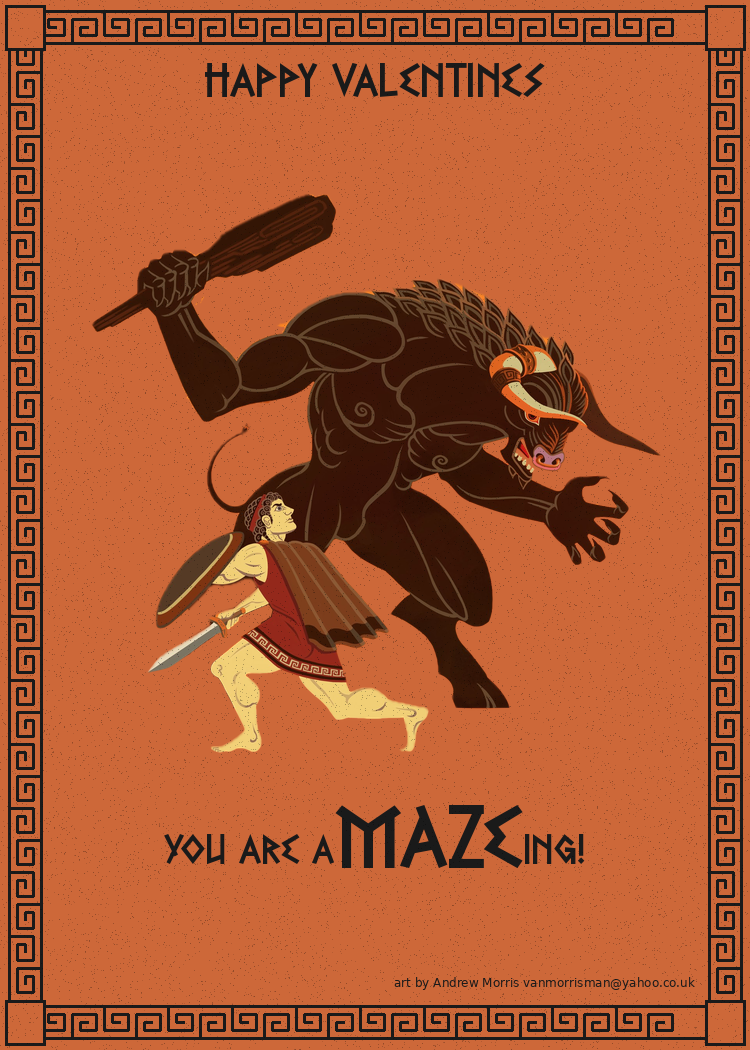
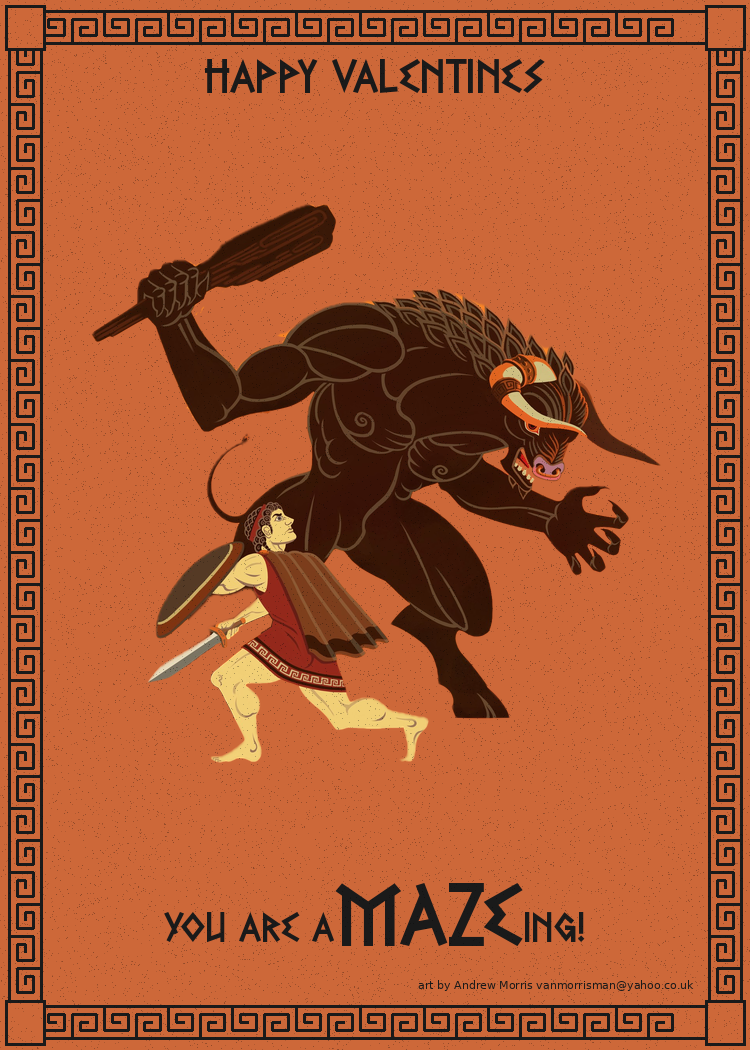
Apply design spacing principles: 8pt grid, proper zones, visual hierarchy

Changed region(s): [[0.1227, 0.1829, 0.8893, 0.7314], [0.2147, 0.7619, 0.92, 0.9448], [0.276, 0.0305, 0.736, 0.0914]]

diff --git a/src/greek_design_system.py b/src/greek_design_system.py
@@ -411,7 +411,7 @@ def generate_greek_card_front(
     top_bbox = draw.textbbox((0, 0), top_text, font=top_font)
     top_text_width = top_bbox[2] - top_bbox[0]
     top_x = (width - top_text_width) // 2
-    top_y = 60  # Just below the top border
+    top_y = 56  # 8pt grid: border ends ~50, + 8px padding
     draw.text((top_x, top_y), top_text, fill=PALETTE.black, font=top_font)
 
     # Add minotaur artwork if provided
@@ -446,9 +446,13 @@ def generate_greek_card_front(
             print(f"Resizing minotaur to: {new_width}x{new_height}")
             minotaur = minotaur.resize((new_width, new_height), Image.Resampling.LANCZOS)
 
-            # Center horizontally, position in upper area
+            # Center horizontally, position below "Happy Valentines" title
             x_pos = (width - new_width) // 2
-            y_pos = 60 + (content_height - new_height) // 2
+            # Title ends ~104px, add 16px padding = 120px start for minotaur area
+            minotaur_top = 120
+            minotaur_bottom = height - 200  # Leave 200px for bottom text area
+            minotaur_area_height = minotaur_bottom - minotaur_top
+            y_pos = minotaur_top + (minotaur_area_height - new_height) // 2
             print(f"Pasting minotaur at position: ({x_pos}, {y_pos})")
 
             # Convert base image to RGBA to properly handle transparency
@@ -524,28 +528,35 @@ def generate_greek_card_front(
     h1 = bbox1[3] - bbox1[1]
     h2 = bbox2[3] - bbox2[1]
 
-    # Center the whole thing horizontally
+    # Layout: bottom zone is 850-1000 (above border)
+    # Center greeting text in zone, credit near bottom
+    bottom_zone_top = height - 200  # 850
+    bottom_zone_bottom = height - 56  # 994 (8px above border)
+
+    # Center greeting vertically in upper portion of bottom zone
+    greeting_zone_height = 120  # Space for the greeting
+    text_y = bottom_zone_top + (greeting_zone_height - h2) // 2
+
+    # Center horizontally
     start_x = (width - total_width) // 2
-    text_y = height - 250  # Move up significantly to fill space
 
     # Draw each part, aligning baselines
-    baseline_offset = h2 - h1  # Offset to align smaller text with bigger text baseline
+    baseline_offset = h2 - h1
     draw.text((start_x, text_y + baseline_offset), part1, fill=PALETTE.black, font=small_font)
     draw.text((start_x + w1, text_y), part2, fill=PALETTE.black, font=big_font)
     draw.text((start_x + w1 + w2, text_y + baseline_offset), part3, fill=PALETTE.black, font=small_font)
 
-    # Add artist credit at bottom left
+    # Artist credit - positioned 24px above bottom border
     try:
-        credit_font = ImageFont.truetype("/usr/share/fonts/truetype/dejavu/DejaVuSans.ttf", 12)
+        credit_font = ImageFont.truetype("/usr/share/fonts/truetype/dejavu/DejaVuSans.ttf", 11)
     except:
         credit_font = ImageFont.load_default()
 
     credit_text = "art by Andrew Morris vanmorrisman@yahoo.co.uk"
-    # Right-align the credit text
     credit_bbox = draw.textbbox((0, 0), credit_text, font=credit_font)
     credit_width = credit_bbox[2] - credit_bbox[0]
-    credit_x = width - credit_width - 55  # Right-aligned with margin
-    draw.text((credit_x, height - 75), credit_text, fill=PALETTE.black, font=credit_font)
+    credit_x = width - credit_width - 56  # Right-aligned with 56px margin (8pt grid)
+    draw.text((credit_x, height - 72), credit_text, fill=PALETTE.black, font=credit_font)  # 72 = 56 + 16
 
     # Add texture (after compositing)
     if add_texture:
